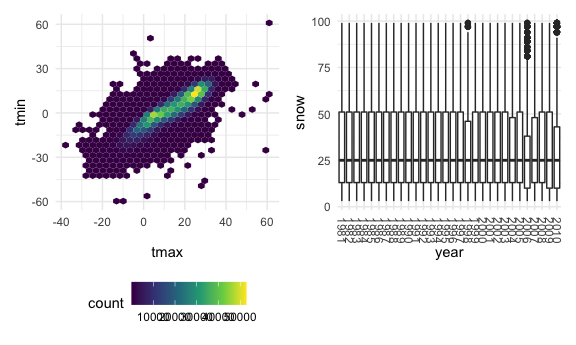
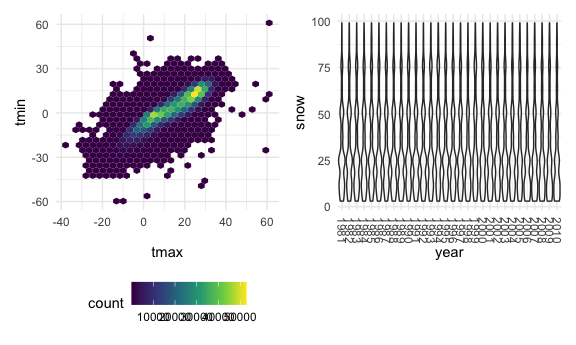
more minor adjuestments

Changed region(s): [[0.5625, 0.058, 1.0, 0.6087]]

diff --git a/p8105_hw3_jz3336.md b/p8105_hw3_jz3336.md
@@ -292,7 +292,7 @@ ny_noaa_df %>%
     mean_tmax = mean(tmax, na.rm = TRUE)
   ) %>% 
   ggplot(aes(x = year, y = mean_tmax,group = id))+
-  geom_point(alpha = .5) +
+  geom_point(alpha = .5, size = .5) +
   geom_path() +
   facet_grid(.~month) +
   theme(axis.text.x = element_text(angle = 270,  vjust = 0.5,  hjust = 1))
@@ -334,7 +334,7 @@ dist_snowfall =
   filter(snow < 100) %>% 
   filter(snow > 0) %>% 
   ggplot(aes(x = year, y = snow)) +
-  geom_boxplot() +
+  geom_violin(alpha = .5) +
   theme(axis.text.x = element_text(angle = 270,  vjust = 0.5,  hjust = 1))
 
 tmax_vs_tmin + dist_snowfall
